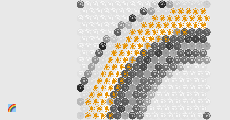
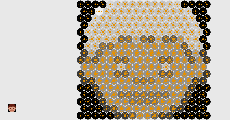
updated readme

diff --git a/grayglyph.js b/grayglyph.js
@@ -32,8 +32,6 @@ if (sat < 50) {
 else {
 	sat = map(sat,50,100,55,100);
 }
-
-//brightness
 var color1 = map(values[2], 0, 100, 0, 255)
   stroke(color1);
   var s2 = size/2;
@@ -42,12 +40,11 @@ var color1 = map(values[2], 0, 100, 0, 255)
   ellipse(s2, s2, size);
    
 //saturation effecting colour of circle and rectangles
-
 var inversesat = 100 - sat;
 fill(inversesat);
 stroke(sat)
 
-//hue effecting rotation
+//hue effecting rotation + brightness effecting the size of the rectangles
 var hue = map(values[0], 0, 100,  10, 200);
 push();
 translate(s2 , s2);

diff --git a/README.md b/README.md
@@ -1,9 +1,16 @@
 ## PS2 MDDN 242 2017
 
-### Color Glyphs
+### Final Glyph
 
-For my spot system I have decided to make the sun shape change to orange since this further expresses that it is a sun. This colour is also strong and vibrant which adds to my vibrant glyph. 
+For my Glyph system I was initially inspired by the idea of rotating rectangles since I feel like you don't see this very often. I then wanted to add depth to each icon to make it look iconic, I did this by adding circles to the inside of each icon. I found that once I had done this the icons looked more like suns which I thought looked quite nice. 
 
-I have been changing the colour spot part of the code so that it picks up the yellow in the pictures and shows a vibrant orange colour. The orange colour was also showing up when green colours are present however I have changed the range to make it smaller. I have changed it so that the brightness is full whenever the orange comes up to make it more vibrant. I also wanted the orange suns to show up in the background when it is black to make each image vibrant even when there is no orange present. This also gives the appearance that there are stars in the background - which is what the sun is obviously. 
+I wanted the Hue to effect the rotation of the rectangles in that when the hue was low the rectangles make a circular shape and when the hue is high that they rotate around and bunch up together to represent a higher hue. I had a few problems achieving this since the rectangles started to overlap as they rotated however I fixed this by changing the variables. 
 
-I also wanted the suns to look even more vibrant when the orange is present, therefore I have made the inner circles grow bigger when the orange is present. This makes them look even more like a sun. 
+I wanted the saturation to effect the colour of the background circle and the sun so that when there is low saturation the background is black and the sun is white, then when there is high saturation this inverses so that the background is white and the sun is black. This caused a few problems in that you couldn't see the sun in the mid point because due to the inverse the sun and the background could be the same colour. I fixed this by blocking out certain variables so that the background and the sun couldn't be the same colour.'
+
+For the brighness I wanted the inner circle and the rectangles to grow as the brightness increases. I learnt how to map properly by doing so. 
+
+For the spot system I decided to make the colour orange to further express the idea of the sun. I wanted the orange colour to be very vibrant which I achieved by making the brightness 100 whenever there is orange. I also wanted the inner circle to grow with the colour so that when there is the orange hue present, the suns are very vibrant. To add texture to the images I made the orange colour appear when the background is black which I think looks cool. I also added texture by making the inner circle grow with the orange colour. 
+
+I found this project very interesting since I liked the idea of the hue, saturation and brightness of a colour effecting the glyph system in different ways. Through this project I learnt a lot about mapping, for loops and rotation which I think are very valuable skills that I will be able to use for future projects. 
+
